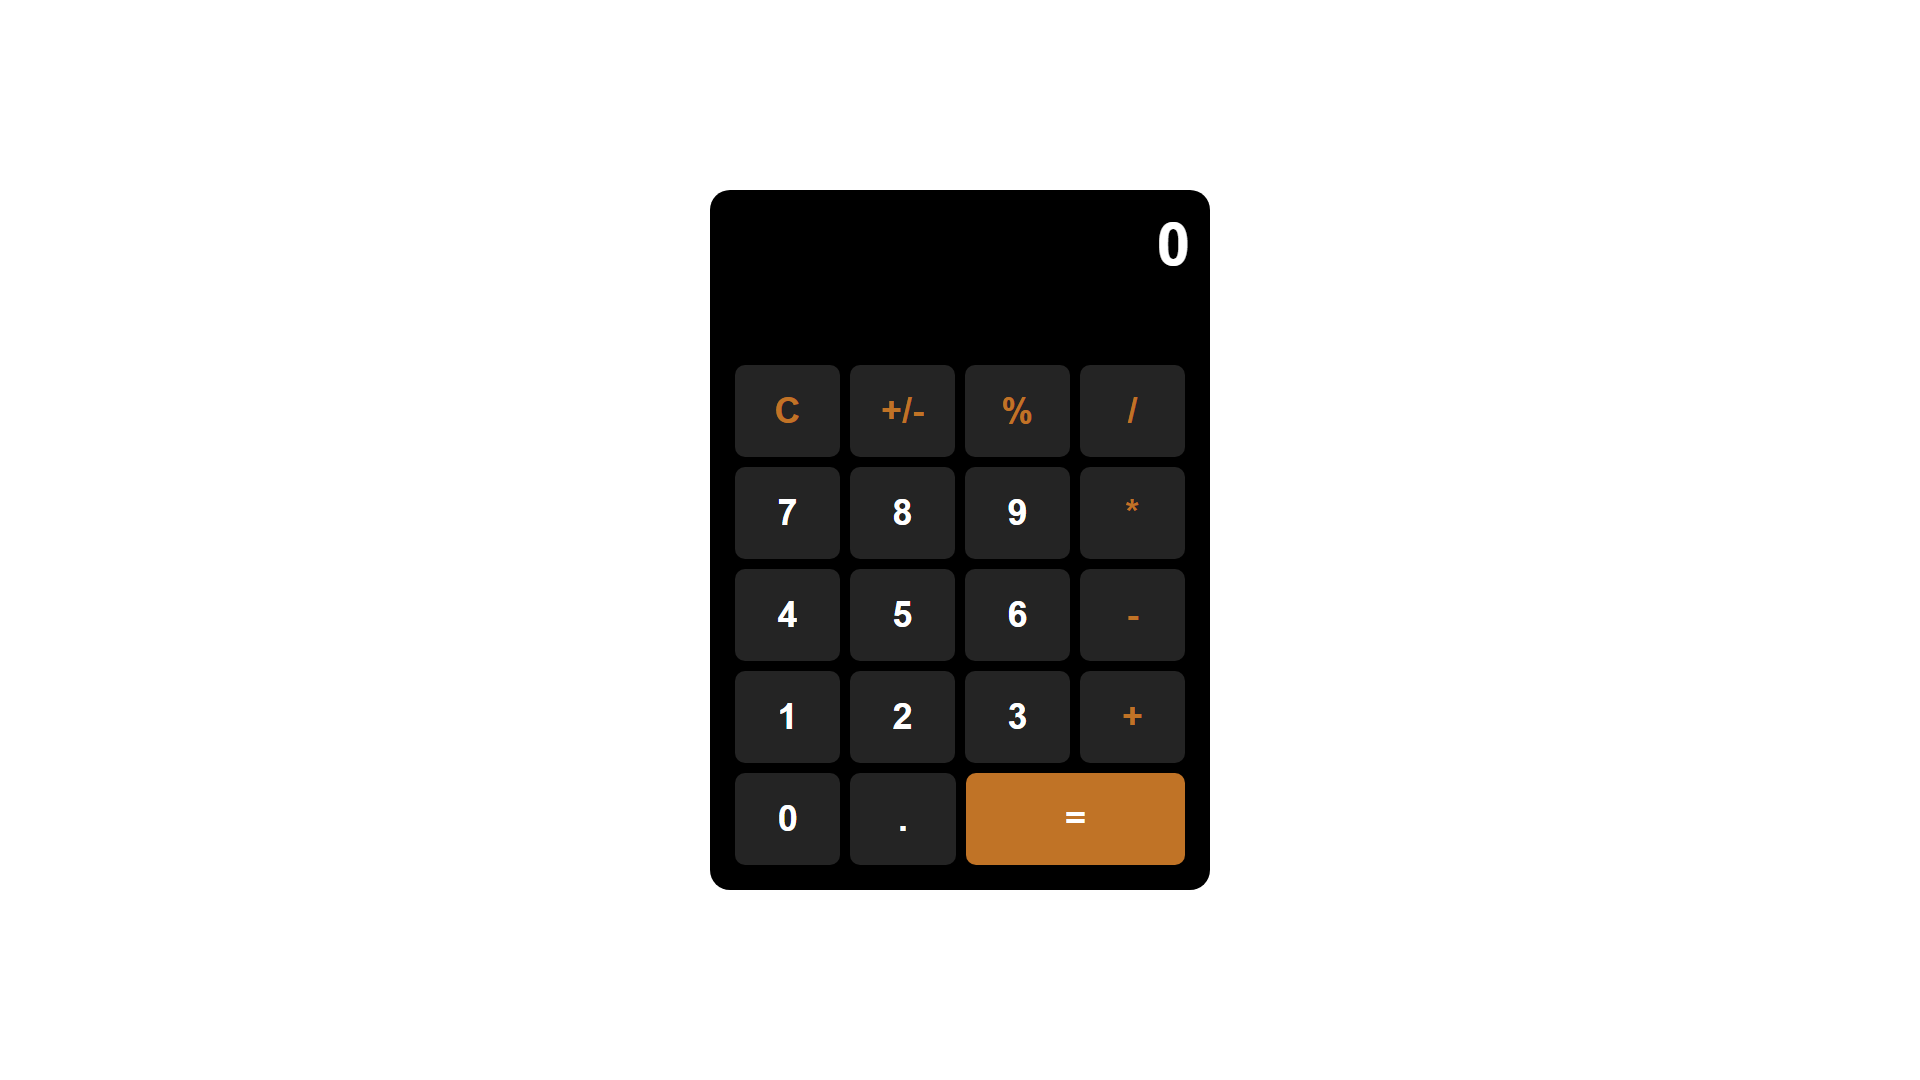
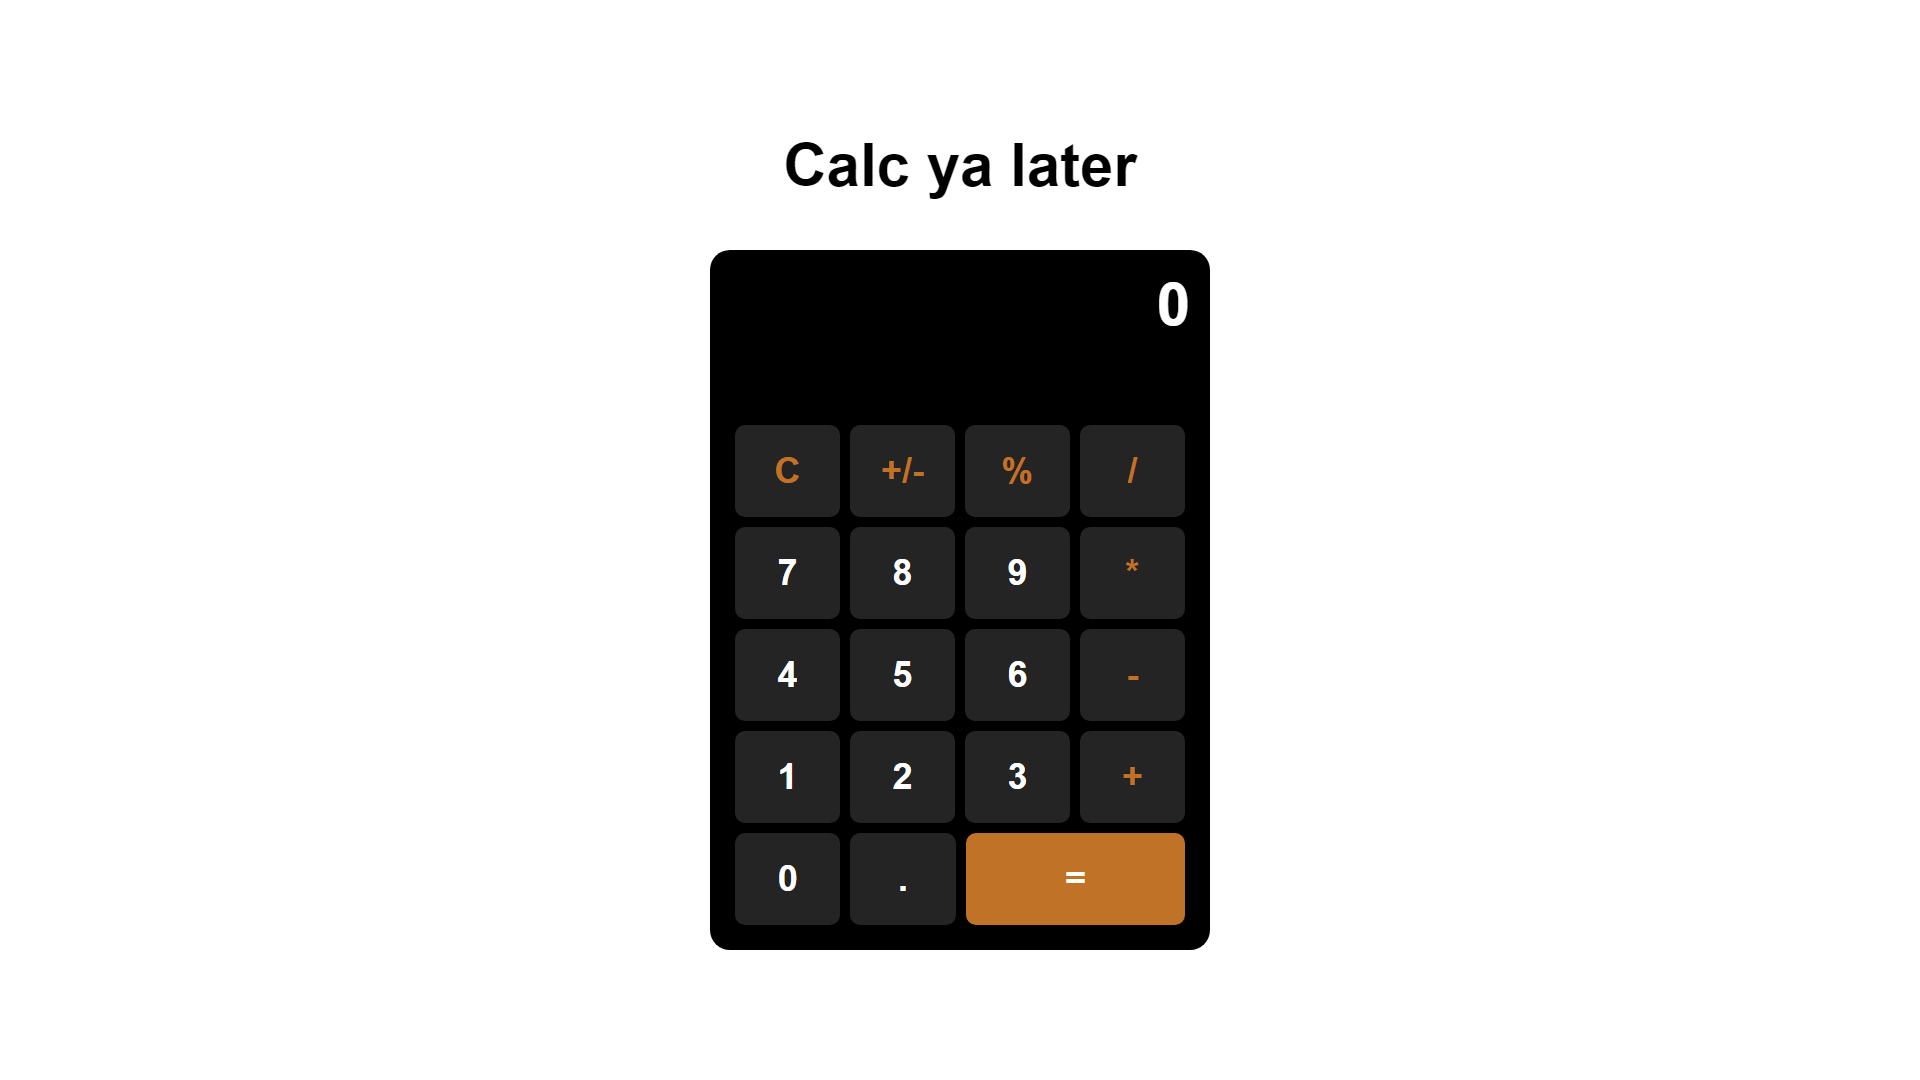
Add projects content

diff --git a/index.html b/index.html
@@ -56,6 +56,59 @@
                 </div>
             </div>
         </div>
+        <div class="Projects-container">
+            <h2>Thesis Project</h2>
+            <div class="Projects-thesis-content-container">
+                <div class="Projects-content">
+                    <div class="Projects-image-container">
+                        <img src="resources/images/Mathematipa1.png" alt="">
+                    </div>
+                    <div class="Projects-content-description">
+                        <h3>Mathematipa</h3>
+                        <p>I took on the role of the lead and sole programmer for this thesis project. This game is directly inspired by Pokémon but with a twist: it integrates mathematics vocabulary to aid learning and familiarization with four fundamental topics in mathematics—namely Algebra, Statistics and Probability, Number Theory, and Geometry.</p>
+                    </div>
+                </div>
+            </div>
+            <h2>Small Projects</h2>
+            <div class="Projects-small-content-container">
+                <div class="Projects-content">
+                    <div class="Projects-image-container">
+                        <img src="resources/images/Mock-Landing-Page.png" alt="">
+                    </div>
+                    <div class="Projects-content-description">
+                        <h3>Mock Landing Page</h3>
+                        <p>One of my first small projects when I started learning how to build websites was creating a mock landing page based on a design provided by The Odin Project.</p>
+                    </div>
+                </div>
+                <div class="Projects-content">
+                    <div class="Projects-image-container">
+                        <img src="resources/images/RPS.png" alt="">
+                    </div>
+                    <div class="Projects-content-description">
+                        <h3>Rock Paper Scissors</h3>
+                        <p>This is the first JavaScript project I built from scratch, initially played entirely on the console. Later on, I revised it to add a user interface.</p>
+                    </div>
+                </div>
+                <div class="Projects-content">
+                    <div class="Projects-image-container">
+                        <img src="resources/images/Etch-A-Sketch.png" alt="">
+                    </div>
+                    <div class="Projects-content-description">
+                        <h3>Etch-a-sketch!</h3>
+                        <p>This project tested my DOM manipulation and Flexbox skills, as I needed to figure out how to dynamically adjust a number of square divs (ranging from 1 to 100) to fit exactly within a 500px square. This project aimed to mimic a sketchpad with a pixelated trail.</p>
+                    </div>
+                </div>
+                <div class="Projects-content">
+                    <div class="Projects-image-container">
+                        <img src="resources/images/Calculator.png" alt="">
+                    </div>
+                    <div class="Projects-content-description">
+                        <h3>Basic Calculator</h3>
+                        <p>This is my recent project from The Odin Project: an on-screen calculator built using JavaScript, HTML, and CSS. It includes functions for all the basic math operators typically found on calculators.</p>
+                    </div>
+                </div>
+            </div>
+        </div>
         <footer>
             
         </footer>

diff --git a/style.css b/style.css
@@ -150,3 +150,51 @@ body {
     height: auto;
     margin-right: 7rem;
 }
+
+.Projects-container {
+    color: aliceblue;
+    margin-top: 10rem;
+}
+
+.Projects-container * {
+    margin-bottom: 3rem;
+}
+
+.Projects-container h2{
+    font-size: 4rem;
+    text-align: center;
+    font-weight: normal;
+}
+
+.Projects-content {
+    display: flex;
+    gap: 50px;
+}
+
+.Projects-image-container {
+    width: 50%;
+}
+.Projects-image-container img{
+    width: 100%;
+    border: 5px solid #FDFD96;
+    box-shadow: 0 0 8px 3px #FDFD96;
+    border-radius: 15px;
+}
+
+.Projects-content-description {
+    flex-direction: column;
+    width: 50%;
+}
+
+.Projects-content-description h3{
+    font-weight: normal;
+    font-size: 3rem;
+    margin-bottom: 2rem;
+}
+
+.Projects-content-description p{
+    font-size: 1.5em;
+}
+
+
+
